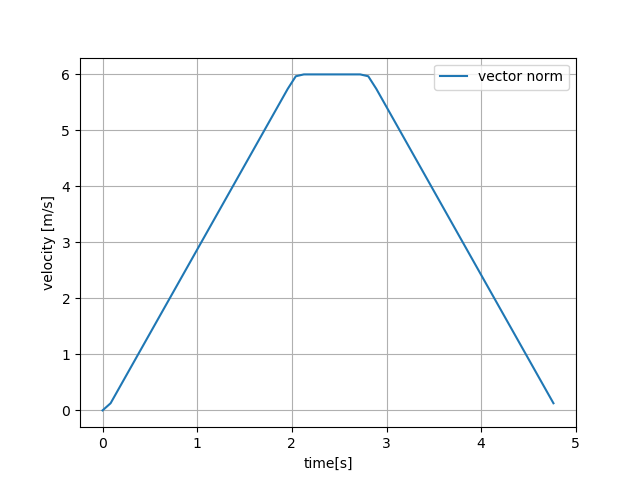
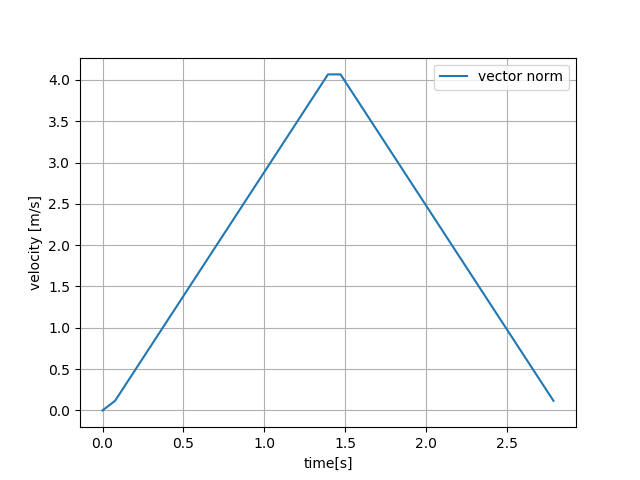
"Adding tank to 3d plotting"

diff --git a/auv/autonomous_underwater_vehicle.py b/auv/autonomous_underwater_vehicle.py
@@ -1,7 +1,7 @@
 import sys
 import numpy as np
 import matplotlib.pyplot as plt
-from mpl_toolkits import mplot3d
+from mpl_toolkits.mplot3d import Axes3D
 from auv.trapezoidal_profile import TrapezoidalProfile
 
 
@@ -82,8 +82,7 @@ class AutonomousUnderwaterVehicle:
 
         return splines, time
 
-    @staticmethod
-    def plot_3d_trajectory(trajectory, time, show_animation=True):
+    def plot_3d_trajectory(self, trajectory, time, show_animation=True):
         """
         Plots an animation of how the AUV's position evolves over time. The acceleration, constant velocity and
         deceleration phases can be remarked during the animation.
@@ -103,7 +102,17 @@ class AutonomousUnderwaterVehicle:
         plt.ylabel('y [m]')
         ax.set_zlabel('z [m]')
 
+        theta = np.linspace(0, 2 * np.pi, 100)
+        x_tank = self.__tank_radius * np.cos(theta)
+        y_tank = self.__tank_radius * np.sin(theta)
+        z_tank = np.linspace(0, self.__tank_height, 100)
+        x_tank, z_tank = np.meshgrid(x_tank, z_tank)
+
+        ax.plot_surface(x_tank, y_tank, z_tank, alpha=0.2, rstride=20, cstride=10)
+        plt.axis('equal')
         plt.title('3D trajectory over time')
+        plt.xlim(-self.__tank_radius*1.5, self.__tank_radius*1.5)
+        plt.ylim(-self.__tank_radius*1.5, self.__tank_radius*1.5)
 
         if show_animation:
             for index in range(len(time)):

diff --git a/main.py b/main.py
@@ -8,11 +8,11 @@ def main():
     auv = AutonomousUnderwaterVehicle(6, 3)
 
     # Initial and final positions - these would be provided by the library that generates collision-free way-points
-    initial_point = np.array([1, -5, 3])[:, np.newaxis]
-    final_point = np.array([6, 8, 12])[:, np.newaxis]
+    initial_point = np.array([-5, -3, 0])[:, np.newaxis]
+    final_point = np.array([6, 5, 9])[:, np.newaxis]
 
     # In order to test the triangular profile one could use the following destination point:
-    # final_point = np.array([2, 0, 4])[:, np.newaxis]
+    # final_point = np.array([-2, 0, 4])[:, np.newaxis]
 
     # Generating splines for each axis over time
     trajectory, time_vector = auv.generate_splines_from_trapezoidal_profile(initial_point, final_point)
